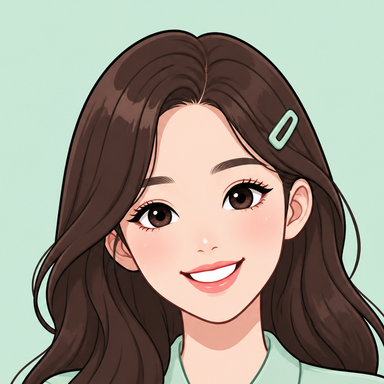
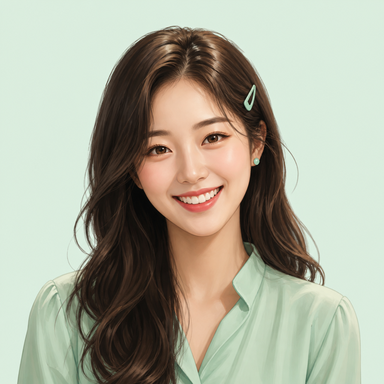
feat: 6인 비서 세미리얼 인물 아바타 적용 + 지도 유휴 움직임(숨쉬기·자리 내 미세 이동)

diff --git a/app.js b/app.js
@@ -230,9 +230,9 @@
     </svg>`;
   }
 
-  /* ---------------- cartoon face avatars ---------------- */
-  // 2026-11-28: SVG 글리프 대신 쓰는 카툰 얼굴 이미지. 로드 실패 시 기존 글리프로 자동 대체됩니다.
-  const AVATAR_V = '20261128f';
+  /* ---------------- semi-realistic face avatars ---------------- */
+  // 2026-11-28: SVG 글리프 대신 쓰는 세미리얼 인물 이미지. 로드 실패 시 기존 글리프로 자동 대체됩니다.
+  const AVATAR_V = '20261128g';
   const faceHTML = (c, cls = '') => `<span class="face ${cls}" style="--fc:${c.color}">
       <img class="face-img" src="assets/avatars/${c.id}.png?v=${AVATAR_V}" alt="" width="384" height="384"
         decoding="async" onerror="this.parentNode.classList.add('face-failed')" />
@@ -301,9 +301,12 @@
       const btn = $(`.critter[data-id="${c.id}"]`);
       if (!btn) return;
       const p = seatPos(c.id);
+      const moved = btn.style.getPropertyValue('--x') !== p.x + '%' || btn.style.getPropertyValue('--y') !== p.y + '%';
       btn.style.setProperty('--x', p.x + '%');
       btn.style.setProperty('--y', p.y + '%');
       btn.setAttribute('aria-label', `${c.name} 비서 ${c.rank}순위, ${ROOMS[seatOf(c.id).room].name}, 역할 보기`);
+      // 실제 방 이동이 오면 유휴 오프셋을 즉시 지우고 새 자리에서 다시 시작합니다.
+      if (moved) resetIdle(c.id);
     });
   }
 
@@ -311,7 +314,68 @@
     const map = $('#map');
     const w = map.clientWidth || 900;
     const cs = clamp(w / 900, 0.54, 1.12);
+    state.cs = cs;
     $('.critters').style.setProperty('--cs', cs.toFixed(3));
+  }
+
+  /* ---------------- idle motion (자리 안에서의 미세 이동) ---------------- */
+  // 12~20초마다 배정된 방 안에서 반지름 10~18px(화면 배율 반영)만큼 부드럽게 옮겨 갑니다.
+  // left/top(방 이동)과 분리된 translate만 건드려 리플로우 없이 GPU에서 합성됩니다.
+  const IDLE_MIN = 12000;
+  const IDLE_MAX = 20000;
+  const idleTimers = {};
+  const rand = (a, b) => a + Math.random() * (b - a);
+  const idleStatic = () => {
+    try { return window.matchMedia('(prefers-reduced-motion: reduce)').matches; }
+    catch (_) { return false; }
+  };
+  const setIdleOffset = (id, x, y) => {
+    const btn = $(`.critter[data-id="${id}"]`);
+    if (btn) btn.style.translate = `${x.toFixed(1)}px ${y.toFixed(1)}px`;
+  };
+
+  function resetIdle(id) {
+    clearTimeout(idleTimers[id]);
+    idleTimers[id] = null;
+    setIdleOffset(id, 0, 0);
+    scheduleIdle(id);
+  }
+
+  function scheduleIdle(id, delay) {
+    clearTimeout(idleTimers[id]);
+    idleTimers[id] = setTimeout(() => {
+      idleTimers[id] = null;
+      idleStep(id);
+      scheduleIdle(id);
+    }, delay == null ? rand(IDLE_MIN, IDLE_MAX) : delay);
+  }
+
+  function idleStep(id) {
+    if (idleStatic() || document.hidden) return;
+    // 상세 카드가 열려 있거나 캐릭터를 선택·누르는 중이면 건드리지 않습니다.
+    if (state.selected || state.roomInfo) return;
+    const btn = $(`.critter[data-id="${id}"]`);
+    if (!btn || btn.matches(':hover, :active, :focus-visible')) return;
+    const r = rand(10, 18) * (state.cs || 1);
+    const a = rand(0, Math.PI * 2);
+    setIdleOffset(id, Math.cos(a) * r, Math.sin(a) * r * 0.62);
+  }
+
+  function pauseIdle() {
+    CHARS.forEach((c) => {
+      clearTimeout(idleTimers[c.id]);
+      idleTimers[c.id] = null;
+      setIdleOffset(c.id, 0, 0);
+    });
+  }
+
+  function resumeIdle() {
+    CHARS.forEach((c, i) => scheduleIdle(c.id, 2200 + i * 1100 + rand(0, 900)));
+  }
+
+  function startIdleMotion() {
+    state.idlePaused = false;
+    resumeIdle();
   }
 
   /* ---------------- selection / detail ---------------- */
@@ -385,6 +449,13 @@
     } else {
       box.hidden = true;
       box.innerHTML = '';
+    }
+    const opened = !box.hidden;
+    $('#map').classList.toggle('idle-paused', opened);
+    if (opened !== !!state.idlePaused) {
+      state.idlePaused = opened;
+      if (opened) pauseIdle();
+      else resumeIdle();
     }
   }
 
@@ -1329,6 +1400,7 @@
     initSeats();
     seedIfEmpty();
     renderCritters();
+    startIdleMotion();
     renderLegend();
     renderCharBar();
     wireMap();

diff --git a/styles.css b/styles.css
@@ -331,7 +331,7 @@ button { cursor: pointer; }
 }
 @keyframes dash { to { stroke-dashoffset: -320; } }
 
-/* ---------------- cartoon face avatars ---------------- */
+/* ---------------- semi-realistic face avatars ---------------- */
 /* 2026-11-28: 카툰 얼굴 이미지를 원형 프레임에 담아 지도·채팅·카드에서 함께 씁니다. */
 
 .face {
@@ -395,7 +395,7 @@ button { cursor: pointer; }
   padding: 0;
   background: none;
   pointer-events: auto;
-  transition: left .85s cubic-bezier(.4, 1.4, .4, 1), top .85s cubic-bezier(.4, 1.4, .4, 1);
+  transition: left .85s cubic-bezier(.4, 1.4, .4, 1), top .85s cubic-bezier(.4, 1.4, .4, 1), translate 2.6s cubic-bezier(.33, .85, .35, 1);
   -webkit-tap-highlight-color: transparent;
   z-index: 2;
 }
@@ -410,6 +410,24 @@ button { cursor: pointer; }
 }
 .critter:hover .body { transform: translateY(-3px) scale(1.05); }
 .critter.is-selected .body { transform: translateY(-4px) scale(1.08); }
+
+/* 유휴 움직임 — 제자리에서 아주 천천히 떠 있는 숨쉬기(translate만 사용해 GPU 합성) */
+@keyframes idle-float {
+  0%, 100% { translate: 0 0; }
+  40% { translate: 0 calc(var(--cs, 1) * -3.2px); }
+  68% { translate: 0 calc(var(--cs, 1) * -0.8px); }
+}
+.critter .body {
+  animation: idle-float 7.6s ease-in-out infinite;
+  animation-delay: var(--delay, 0s);
+  will-change: translate;
+}
+/* 클릭·호버·선택·상세 카드가 열린 동안에는 움직임을 멈춰 조작을 방해하지 않습니다 */
+.critter:hover .body,
+.critter:focus-visible .body,
+.critter:active .body,
+.critter.is-selected .body,
+#map.idle-paused .critter .body { animation-play-state: paused; }
 .critter.is-selected::after {
   content: "";
   position: absolute;

diff --git a/index.html b/index.html
@@ -13,7 +13,7 @@
 <link rel="preconnect" href="https://fonts.googleapis.com" />
 <link rel="preconnect" href="https://fonts.gstatic.com" crossorigin />
 <link href="https://fonts.googleapis.com/css2?family=Gowun+Dodum&family=Noto+Sans+KR:wght@400;500;700;900&display=swap" rel="stylesheet" />
-<link rel="stylesheet" href="styles.css?v=20261128f" />
+<link rel="stylesheet" href="styles.css?v=20261128g" />
 </head>
 <body>
 <a class="skip" href="#chat">채팅으로 건너뛰기</a>
@@ -408,6 +408,6 @@ PUT  /presence/&lt;clientId&gt;.json
 </div>
 
 <div class="toast" id="toast" role="status" aria-live="polite" hidden></div>
-<script src="app.js?v=20261128f"></script>
+<script src="app.js?v=20261128g"></script>
 </body>
 </html>
